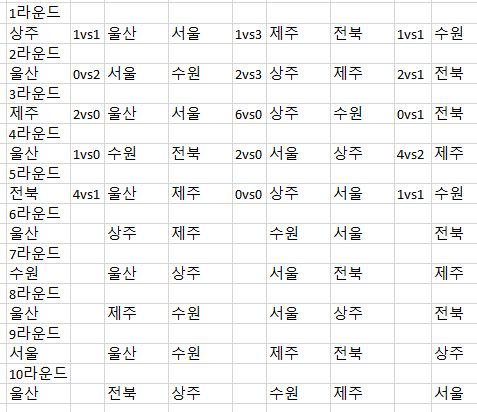
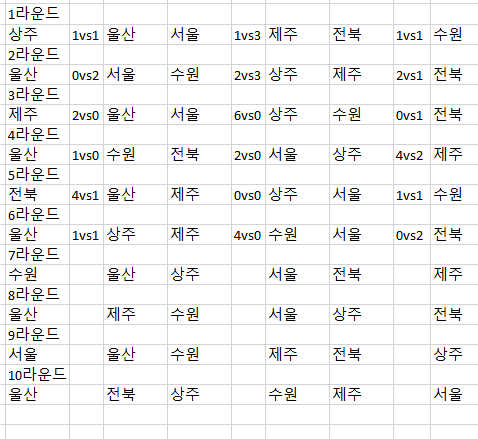
6라운드 업데이트

Changed region(s): [[0.0, 0.0, 1.0, 1.0], [0.4696, 0.8155, 0.499, 0.8447]]

diff --git a/index.html b/index.html
@@ -43,7 +43,8 @@
             <h4>베예린(상주) 1 옐로우</h4>
             <h4>나잉골란(서울) 1 레드 - 1경기 징계 (끝)</h4>
             <h4>제르비뉴(상주) 1 옐로우</h4>
-            <H4>라두(울산) 1 옐로우</H4>
+            <h4>라두(울산) 1 옐로우</h4>
+            <h4>에릭센(서울) 1 옐로우</h4>
             
             <p></p>
             <h3>---부상자 현황---</h3>
